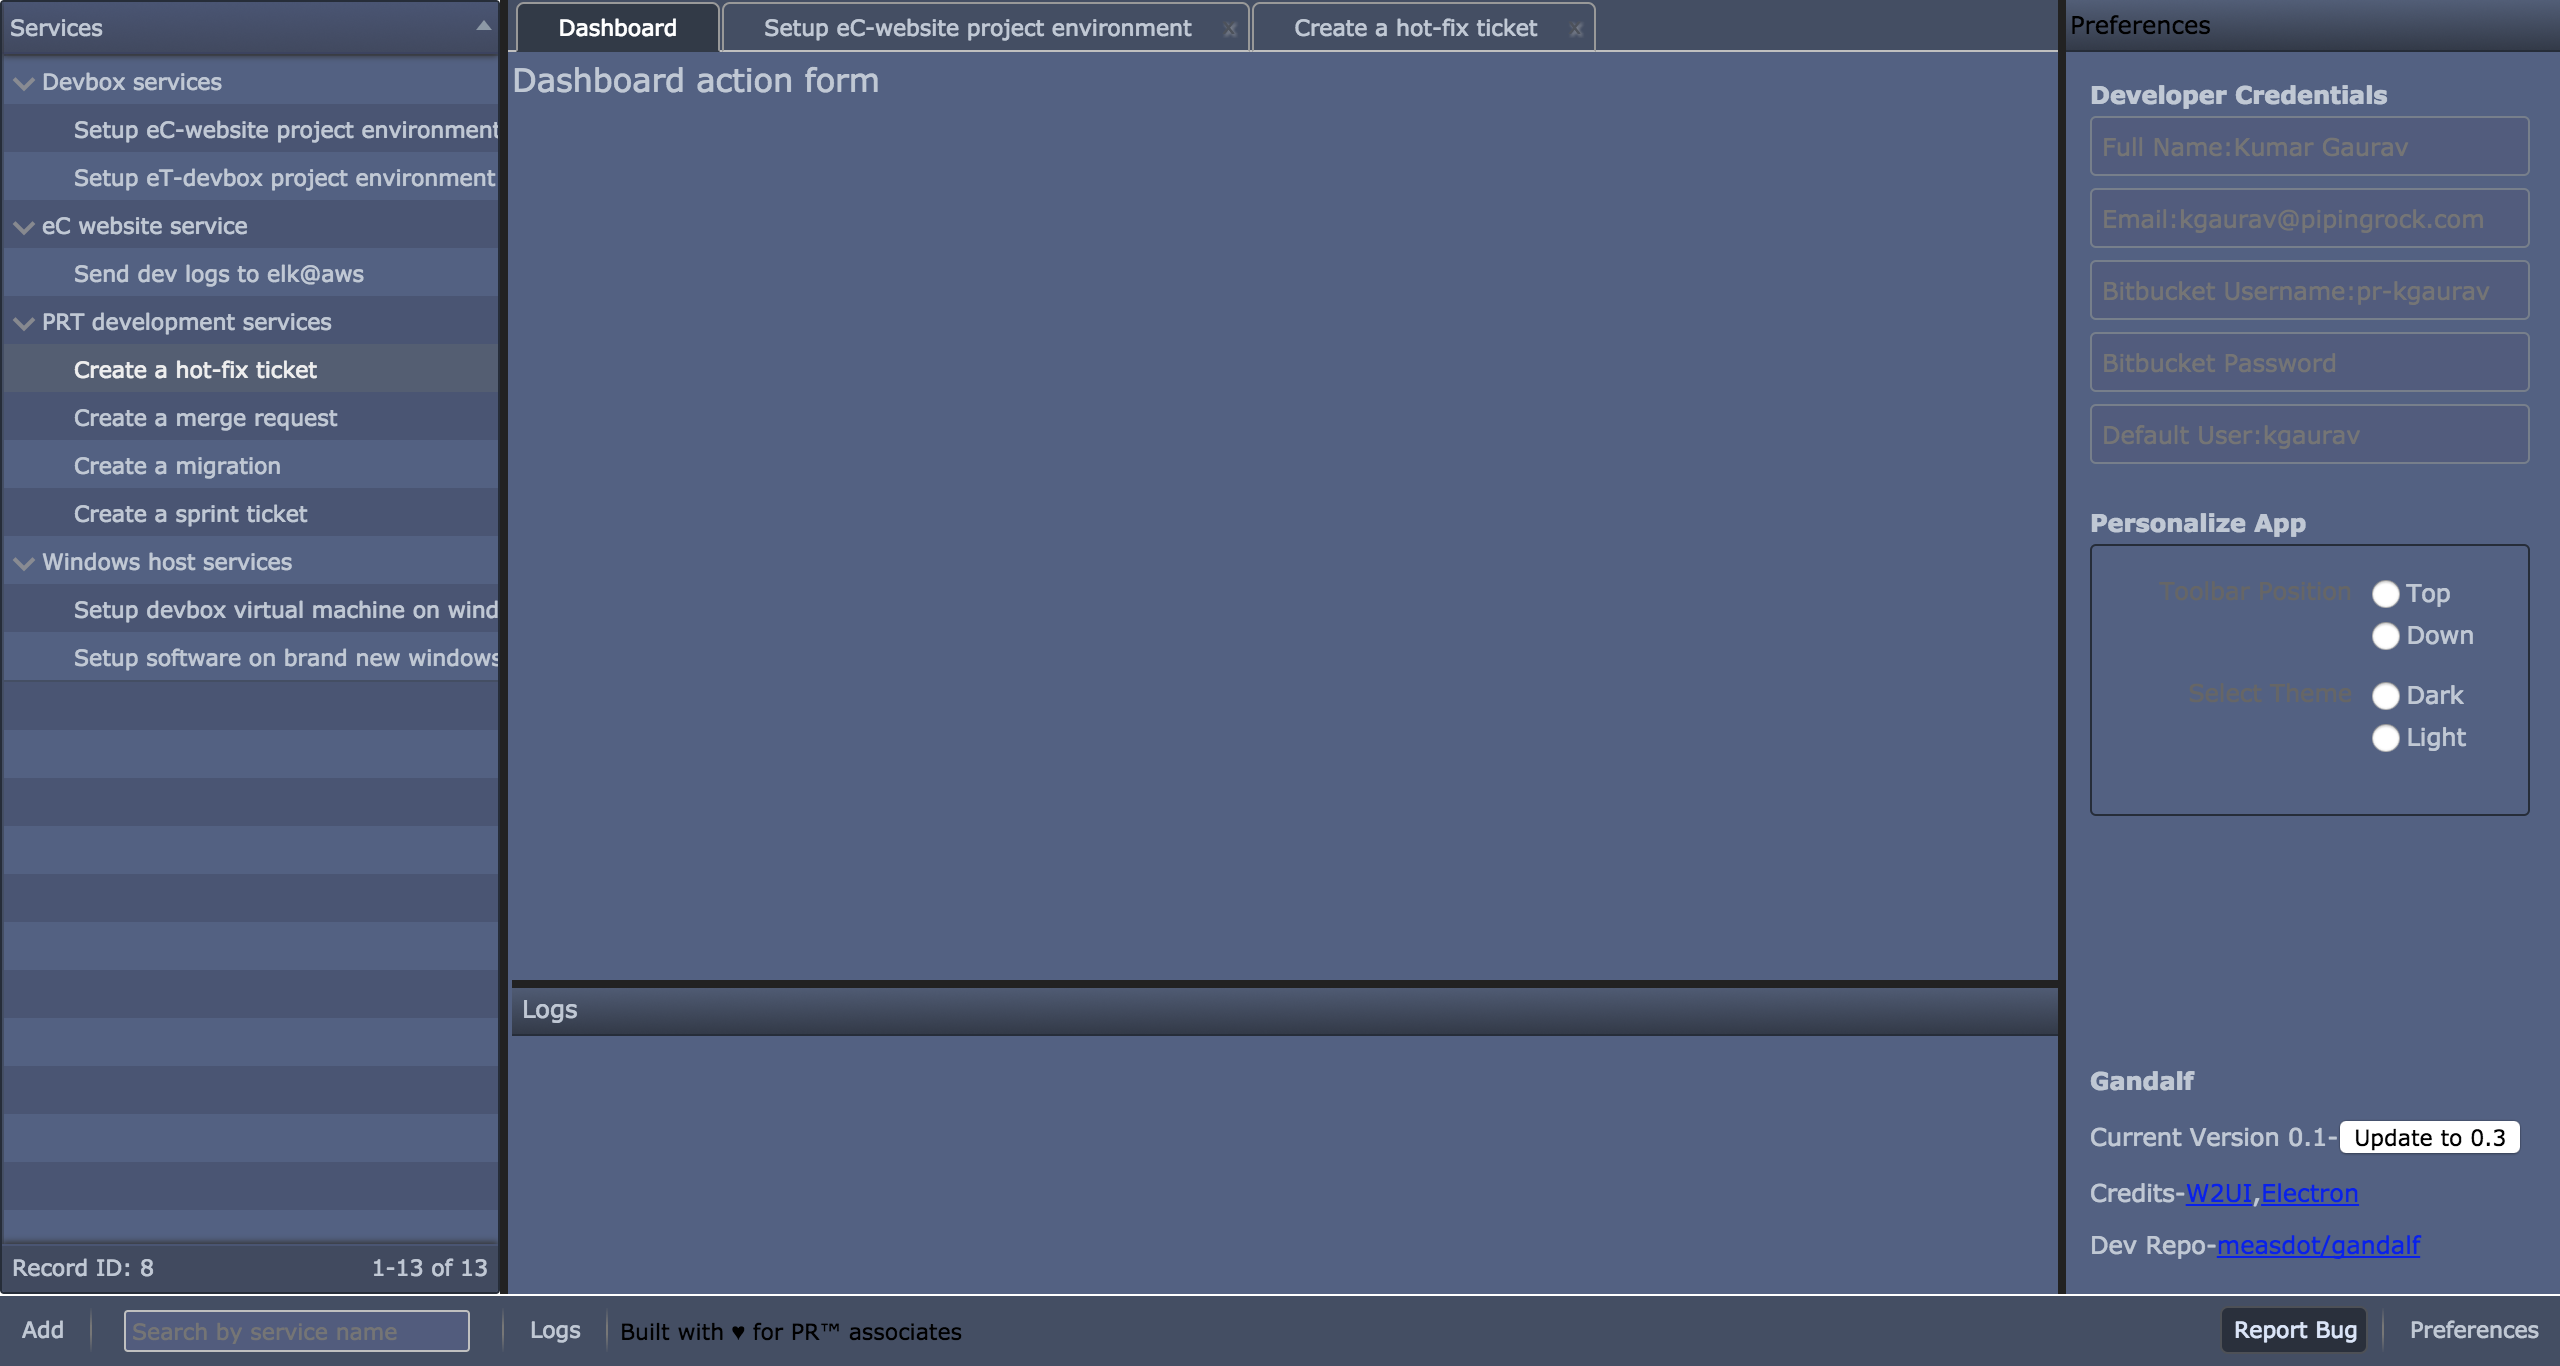
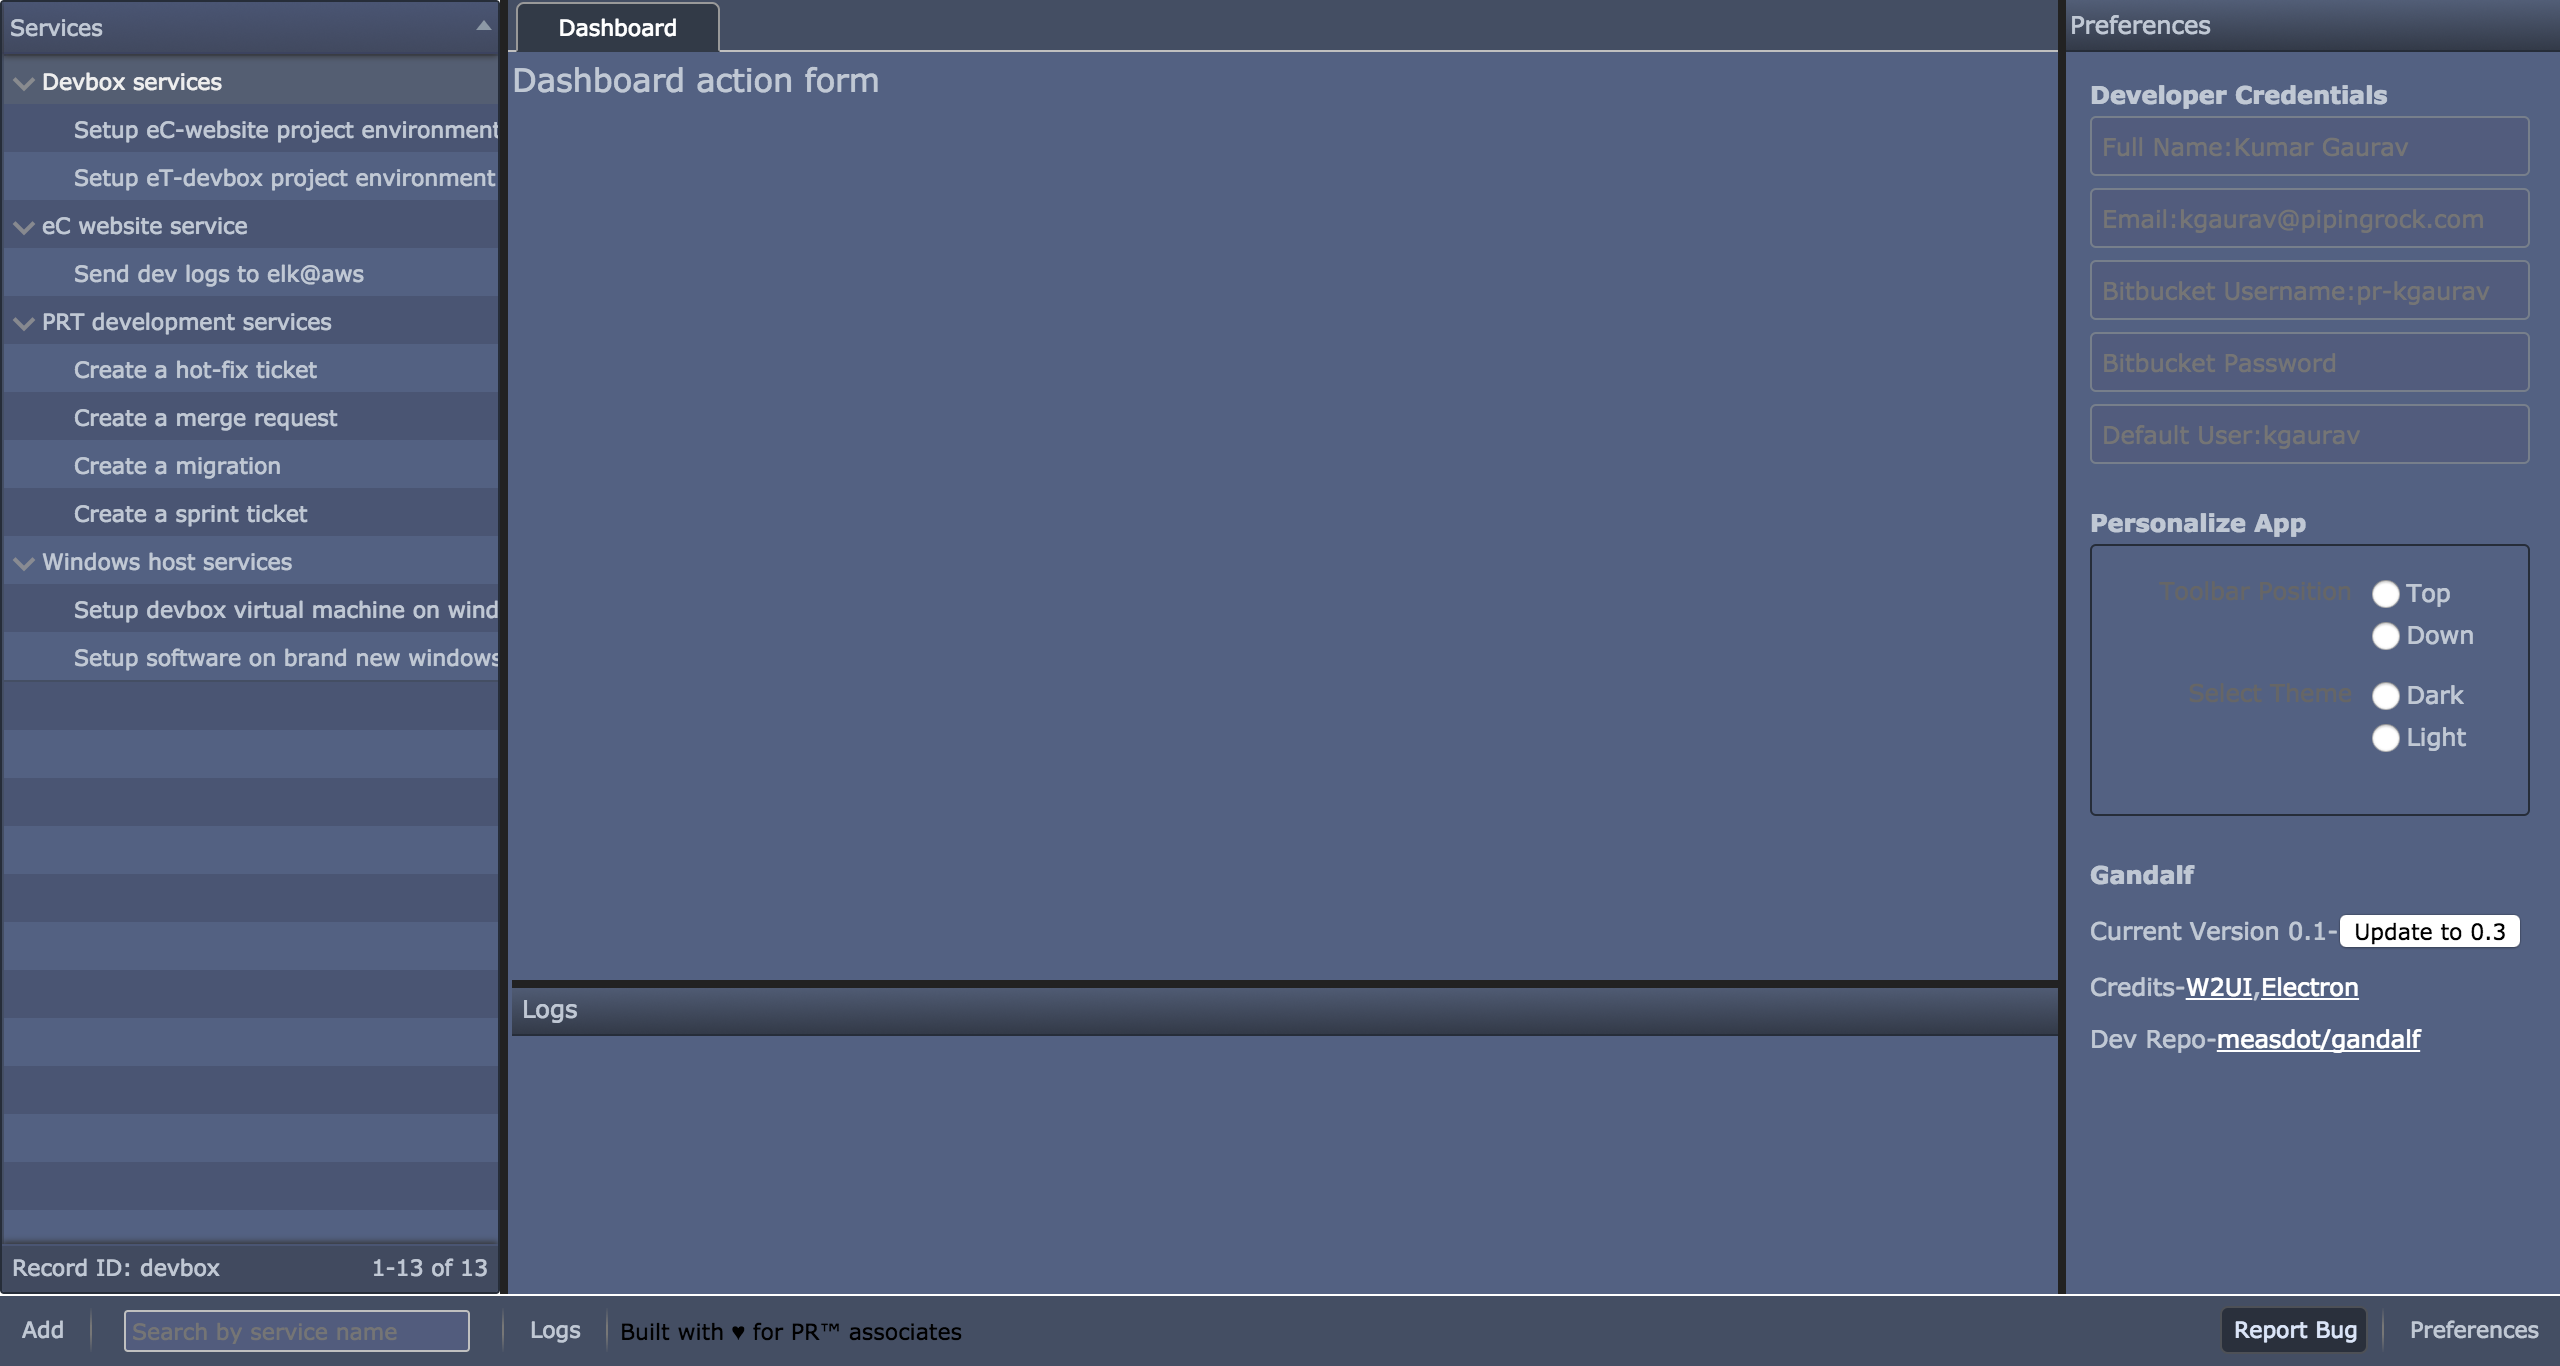
dark and light themes fixes and updated screenshots

diff --git a/src/components/toolbar.js b/src/components/toolbar.js
@@ -18,7 +18,7 @@ module.exports = {
 				}
 			},
 			{type: 'break', id: 'break0'},
-			{type: 'button', id: 'item7', caption: 'Logs', hint: 'toggle logs panel for current service'},
+			{type: 'button', id: 'item7', caption: 'Logs'},
 			{type: 'break', id: 'break2'},
 			{
 				type: 'html', id: 'item2',
@@ -31,7 +31,7 @@ module.exports = {
 			{type: 'spacer'},
 			{type: 'button', id: 'item3', caption: 'Report Bug'},
 			{type: 'break', id: 'break1'},
-			{type: 'button', id: 'item6', caption: 'Preferences', hint: 'toggle preferences panel'},
+			{type: 'button', id: 'item6', caption: 'Preferences'},
 		],
 		onClick: function (event) {
 

diff --git a/src/stylesheets/w2ui-dark.less b/src/stylesheets/w2ui-dark.less
@@ -157,6 +157,7 @@
 @layout-color: #C0C8D5;
 //@layout-background-color: inherit;
 @layout-background-color: #526083;
+@layout-title-color: #C0C8D5;
 @layout-title-linear-gradient-start: #515D78;
 @layout-title-linear-gradient-end: #323948;
 @layout-title-border: #252C39;
@@ -339,3 +340,7 @@
 @listview-item-hover-background-color-end: @sidebar-node-hover-background-color-end;
 
 @import "src/listview.less";
+
+a{
+    color: white;
+}

diff --git a/src/stylesheets/w2ui.less b/src/stylesheets/w2ui.less
@@ -150,6 +150,7 @@
 
 @layout-color: inherit;
 @layout-background-color: #F2F2F2;
+@layout-title-color: inherit;
 @layout-title-linear-gradient-start: #DAE6F3;
 @layout-title-linear-gradient-end: #C2D5ED;
 @layout-title-border: 1px solid #B9CEE9;
@@ -318,3 +319,6 @@
 @listview-item-hover-background-color-end: @sidebar-node-hover-background-color-end;
 
 @import "src/listview.less";
+a{
+  color: black;
+}

diff --git a/src/components/home.js b/src/components/home.js
@@ -16,7 +16,7 @@ export const config = {
 		{ type: 'main', content: tabsTemplate(), style:mainLayoutStyle
 			,resizable: true
 		},
-		{ type: 'right', size: 250, minSize:250, style:mainLayoutStyle, hidden:true,
+		{ type: 'right', size: 250, minSize:250, hidden:false,
 			resizable: true,
 			title:'Preferences',
 			content:preferencesTemplate()

diff --git a/src/stylesheets/src/layout.less b/src/stylesheets/src/layout.less
@@ -25,6 +25,7 @@
             z-index: 120;
 
             .w2ui-panel-title {
+                color: @layout-title-color;
                 position: absolute;
                 left: 0px;
                 top: 0px;
